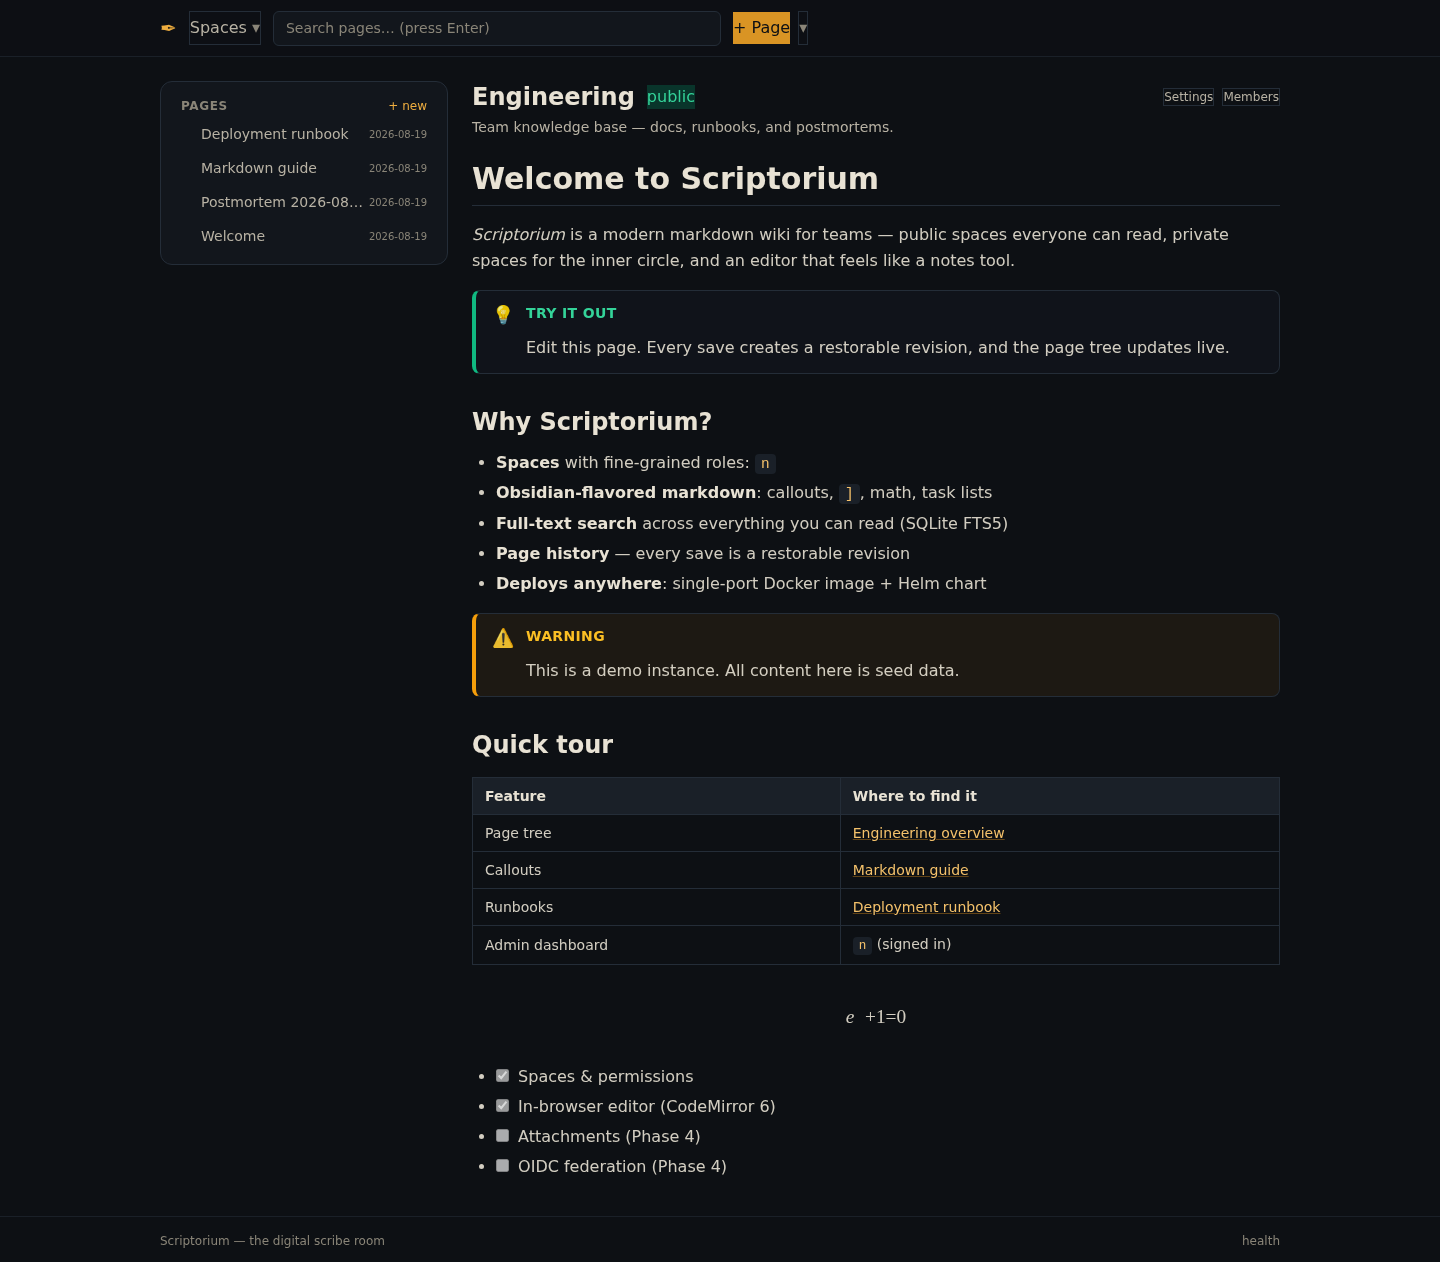
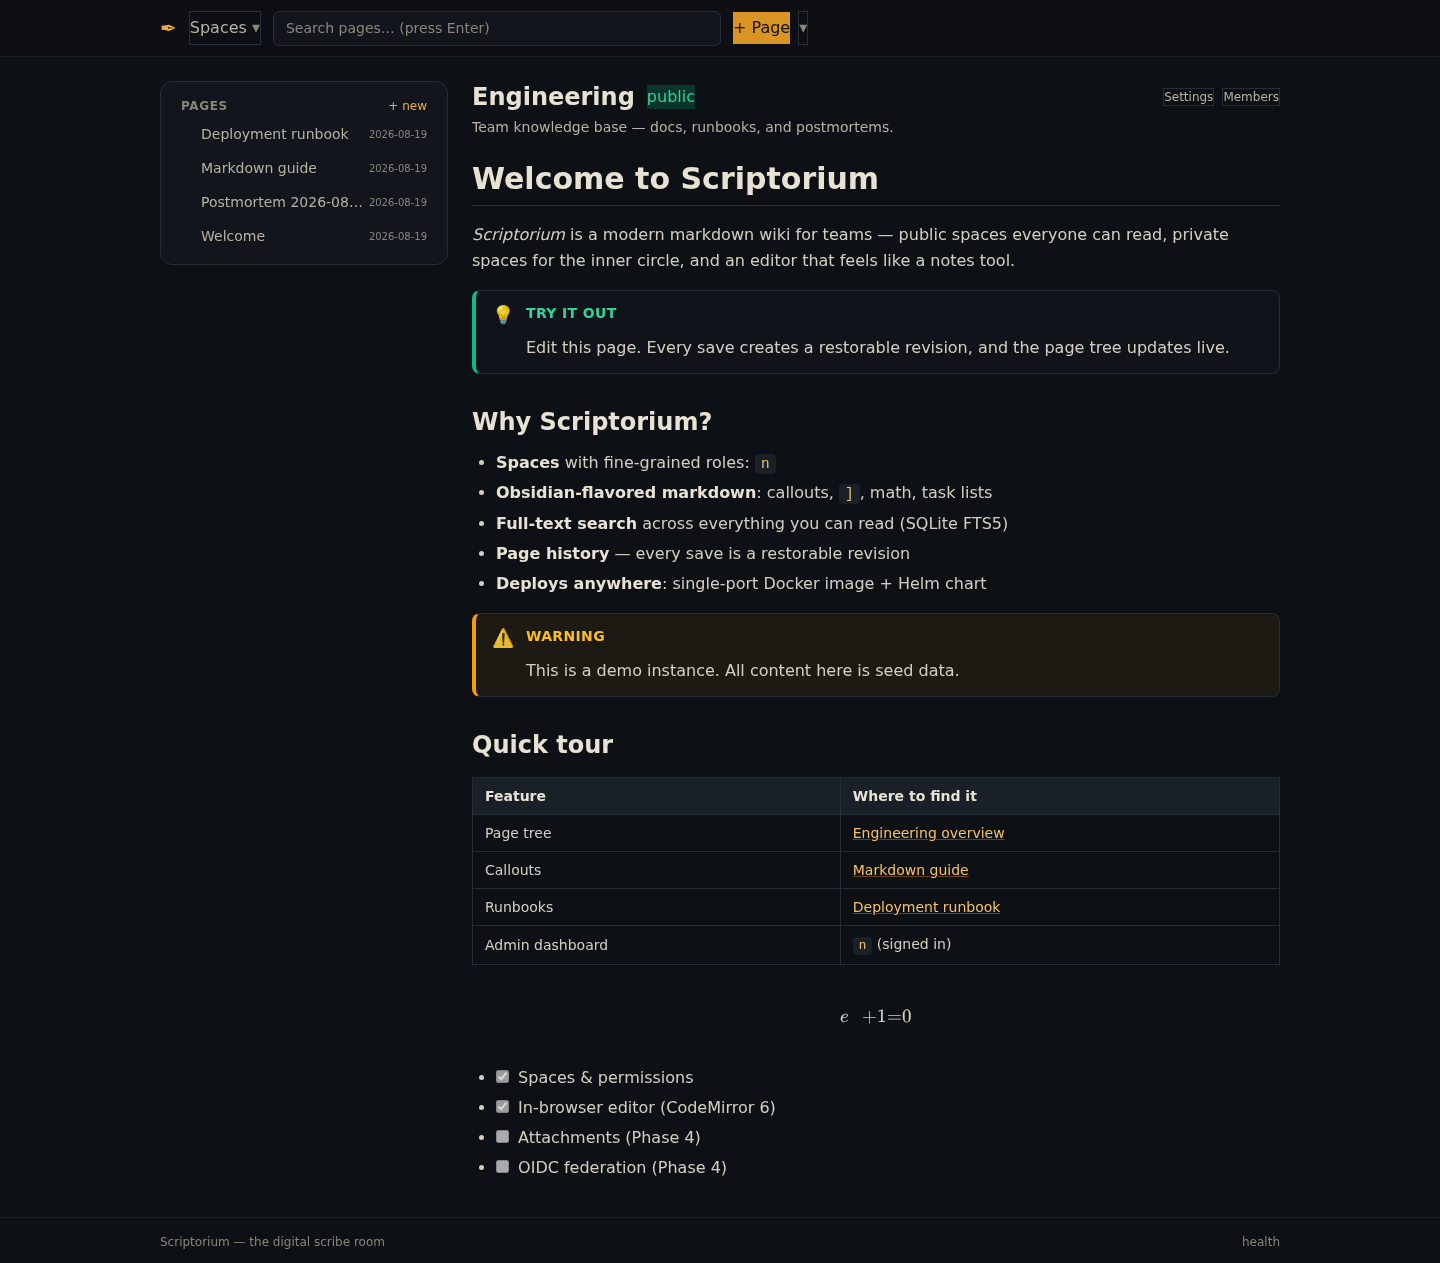
fix: KaTeX font 404s in rendered math
The minified KaTeX CSS uses relative url(fonts/…); served at
/api/katex.css those resolve to /api/fonts/… but the font route is
/api/katex/fonts/:file, so every math glyph fell back to the wrong font.
Rewrite the url() prefix when the CSS is loaded.

Verified: /api/katex/fonts/*.woff2 → 200, math renders with correct
KaTeX fonts; 31/31 server tests still pass.

diff --git a/server/markdown.js b/server/markdown.js
@@ -31,7 +31,11 @@ import { sanitizeHtml, escapeHtml } from './sanitize.js';
 // Resolve katex's dist files via Node's module resolution (works whether npm
 // hoists node_modules to the workspace root or not).
 const _req = createRequire(import.meta.url);
-const KATEX_CSS = readFileSync(_req.resolve('katex/dist/katex.min.css'), 'utf8');
+// KaTeX's minified CSS references fonts via relative url(fonts/…). Because we
+// serve it at /api/katex.css, those resolve to /api/fonts/… — but the font
+// route is /api/katex/fonts/:file. Rewrite the prefix so math fonts load.
+const KATEX_CSS = readFileSync(_req.resolve('katex/dist/katex.min.css'), 'utf8')
+  .replace(/url\((['"]?)fonts\//g, 'url($1katex/fonts/');
 
 /** Absolute path to a katex dist font (used by the /api/katex/fonts route). */
 export function katexFontPath(name) {
